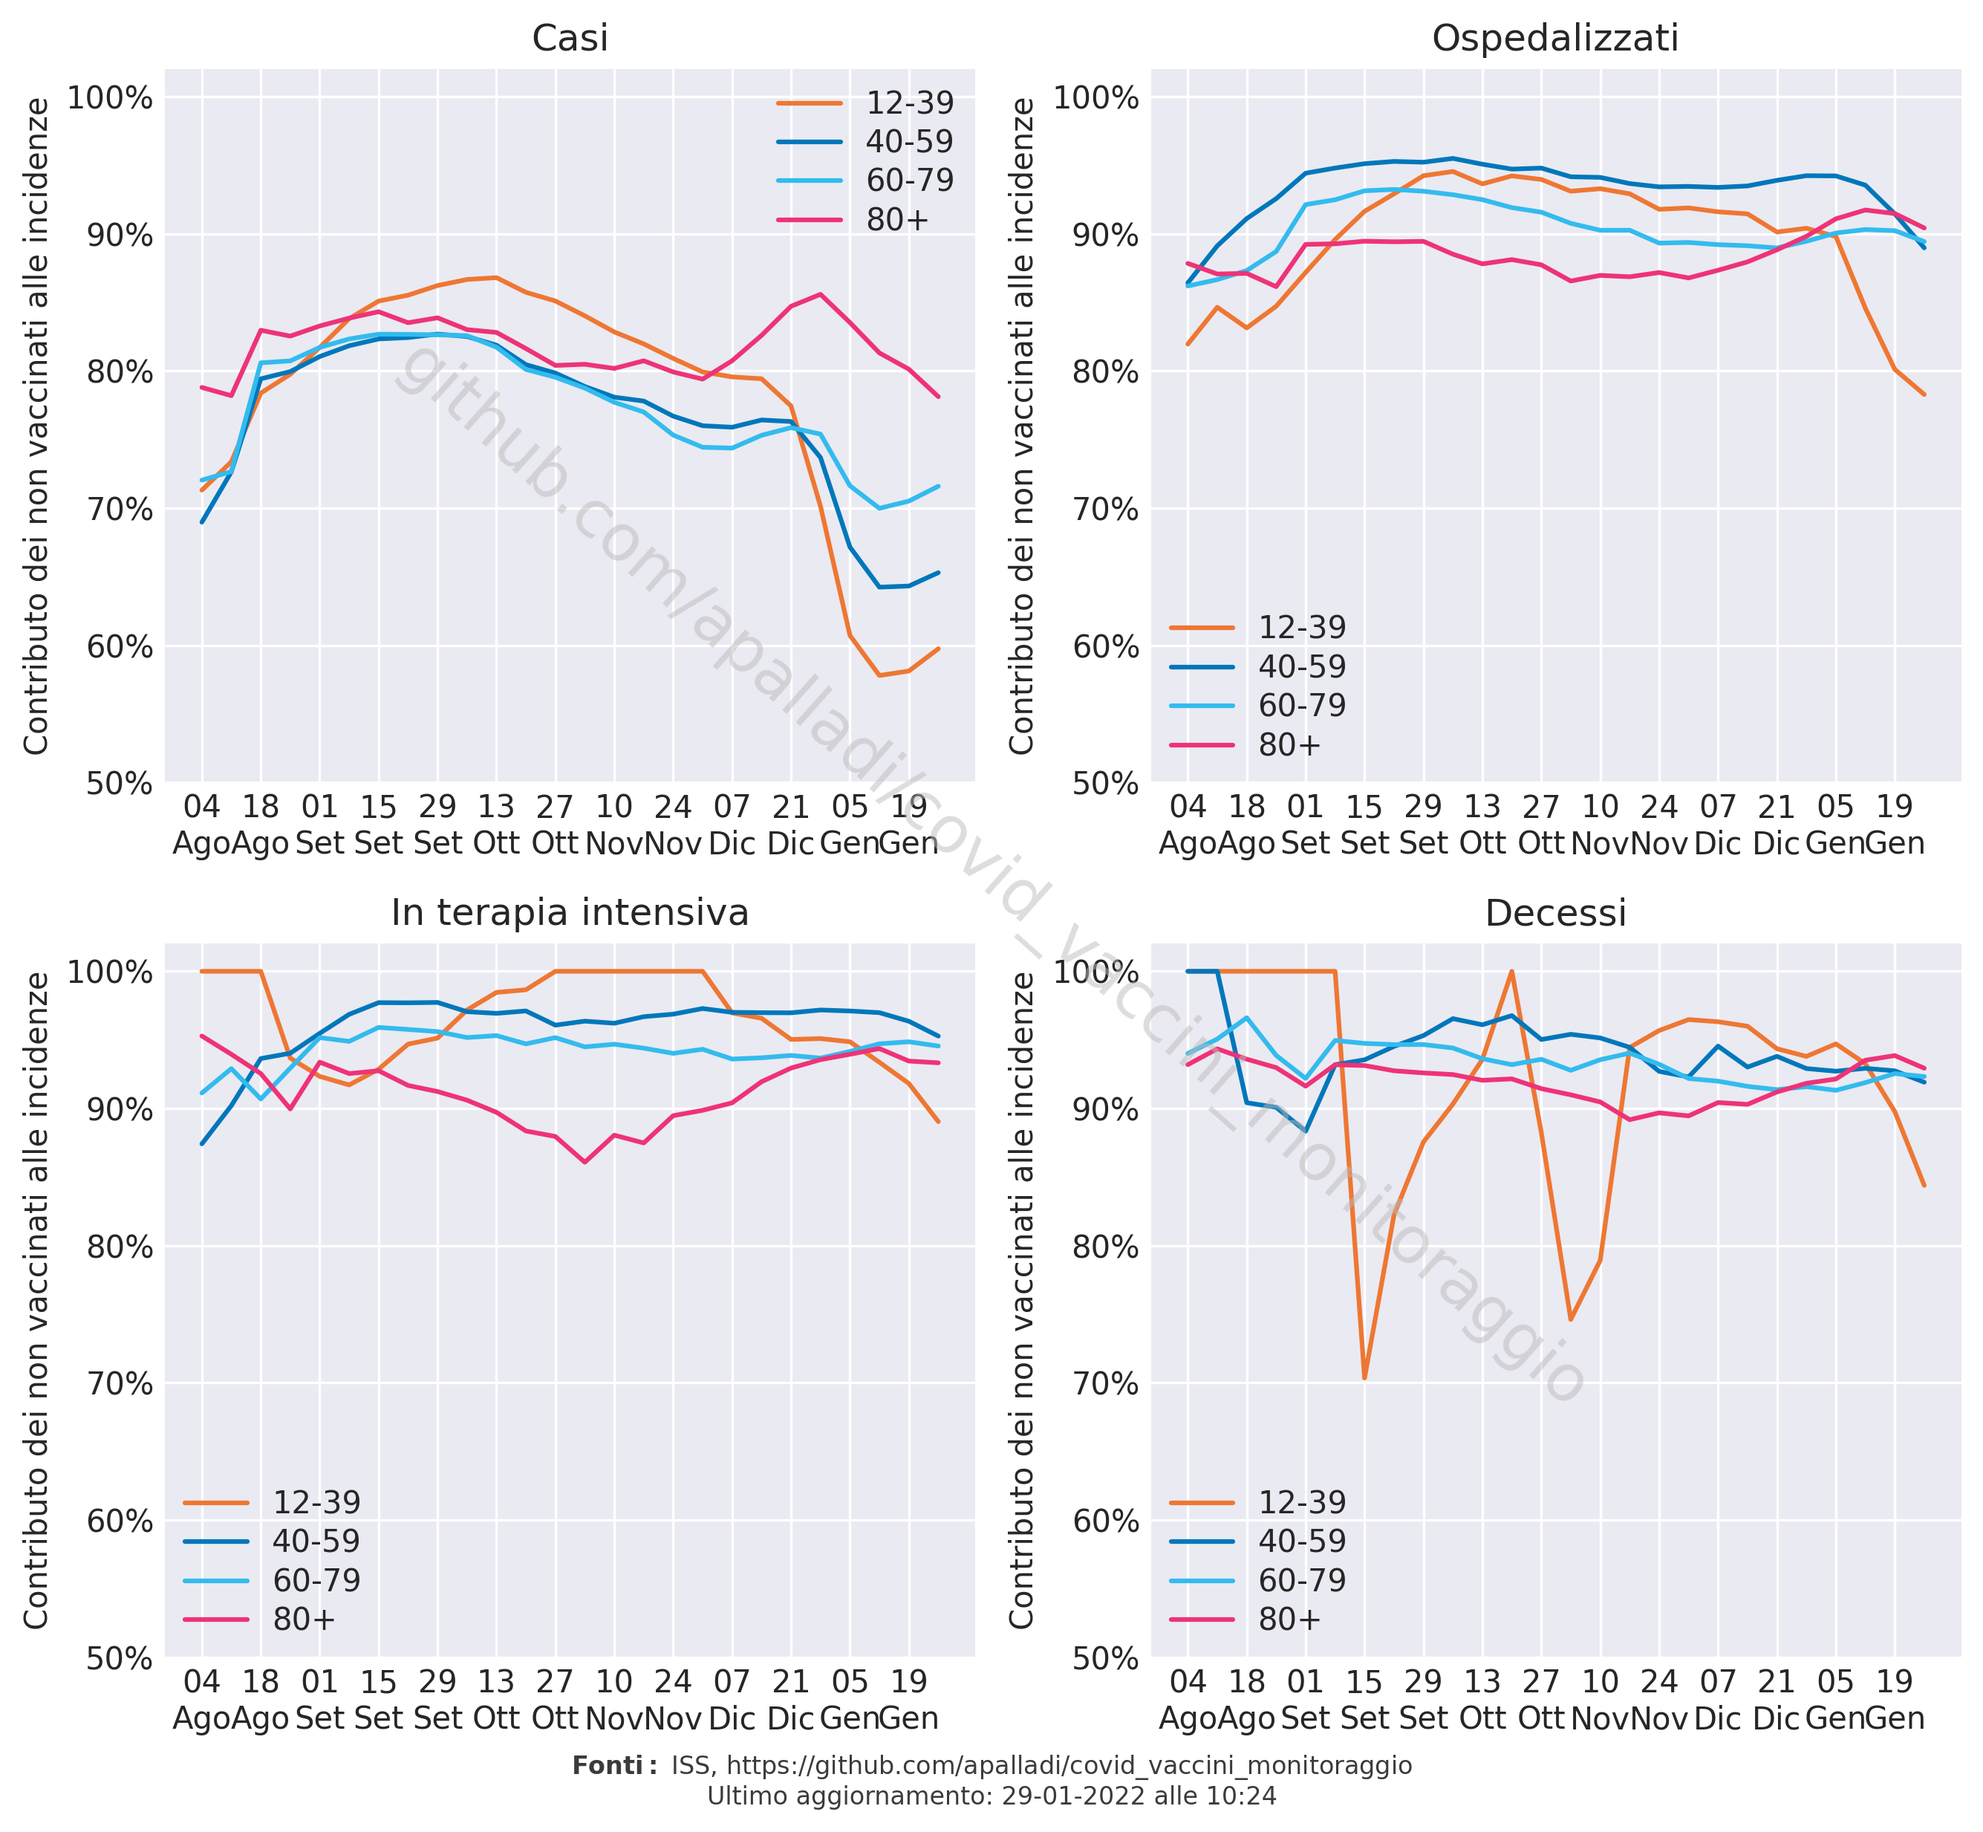
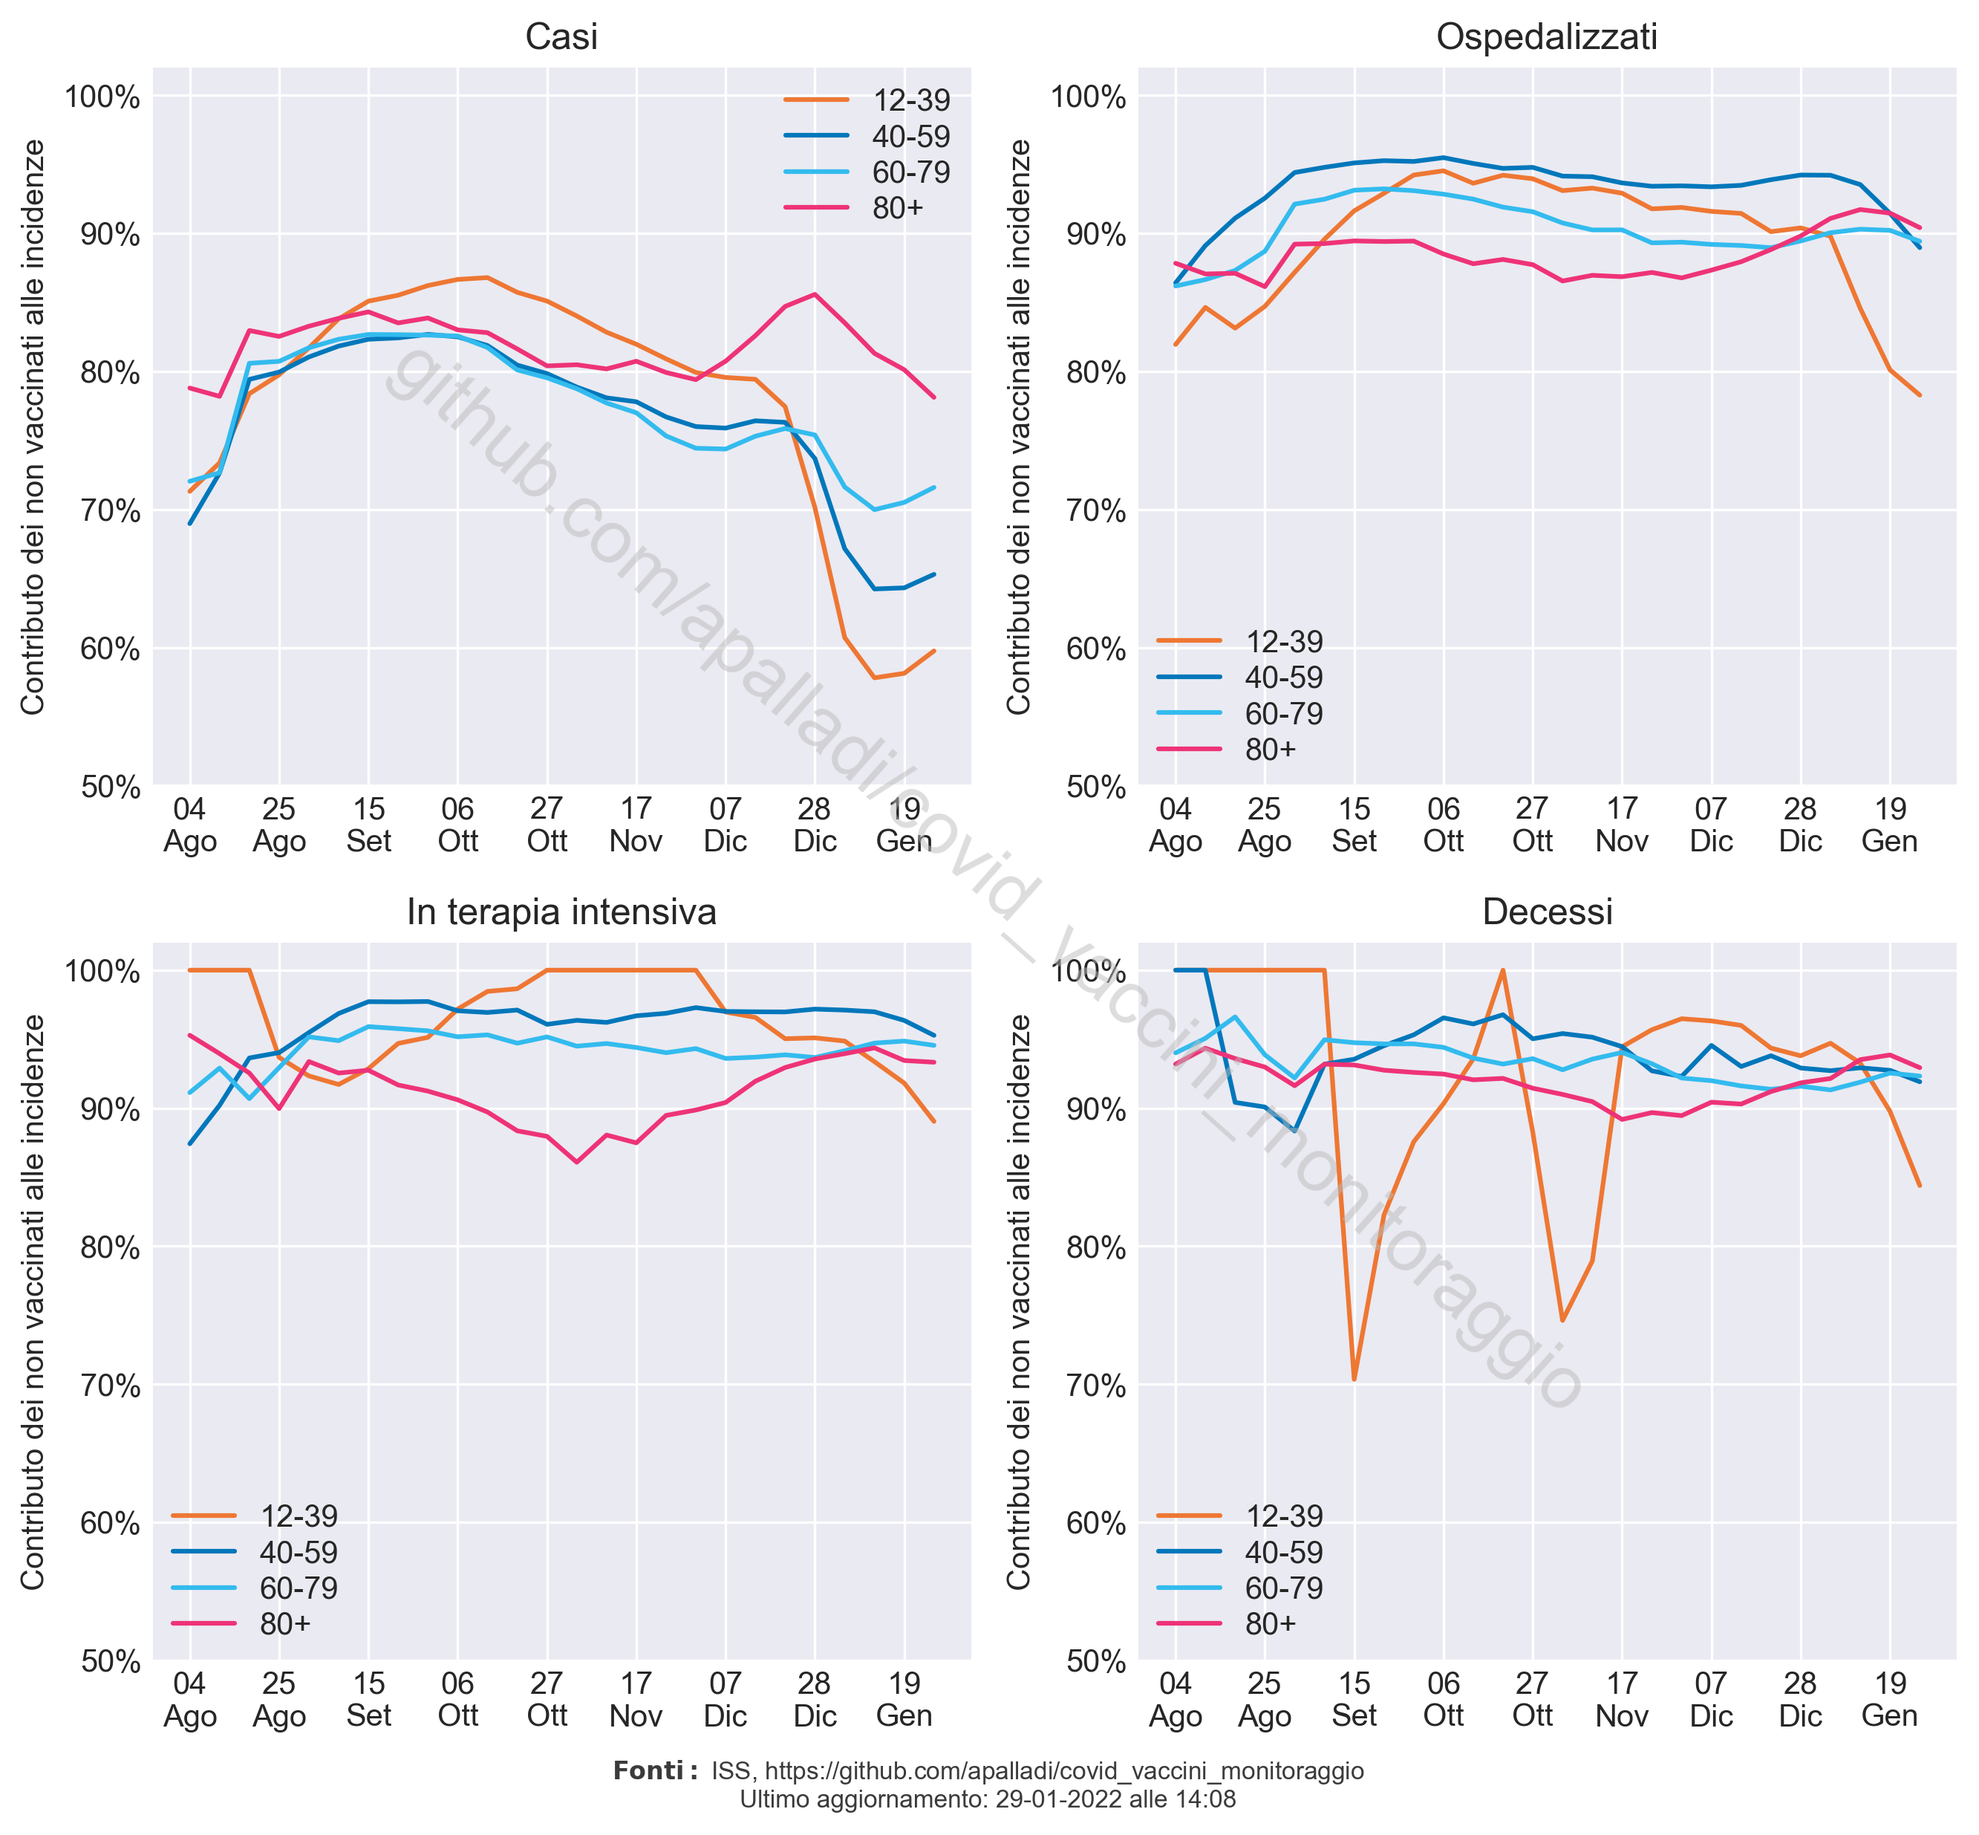
Andamento rapporti incidenze: migliorati labels x

diff --git a/scripts/custom/plots.py b/scripts/custom/plots.py
@@ -50,9 +50,9 @@ def get_xticks_labels(reports_dates=None, full=False):
         reports_dates = pd.to_datetime(df_assoluti["data"])
     if full:
         reports_dates.sort_values(inplace=True)
-        sel_dates = reports_dates[0::2]
+        sel_dates = reports_dates[0::3]
         labels = [t.strftime("%d\n%b") for t in sel_dates]
-        ticks = np.arange(0, len(reports_dates), 2)
+        ticks = np.arange(0, len(reports_dates), 3)
     else:
         ticks = set([x.strftime("%Y-%m-01") for x in reports_dates])
         ticks = sorted(ticks)
